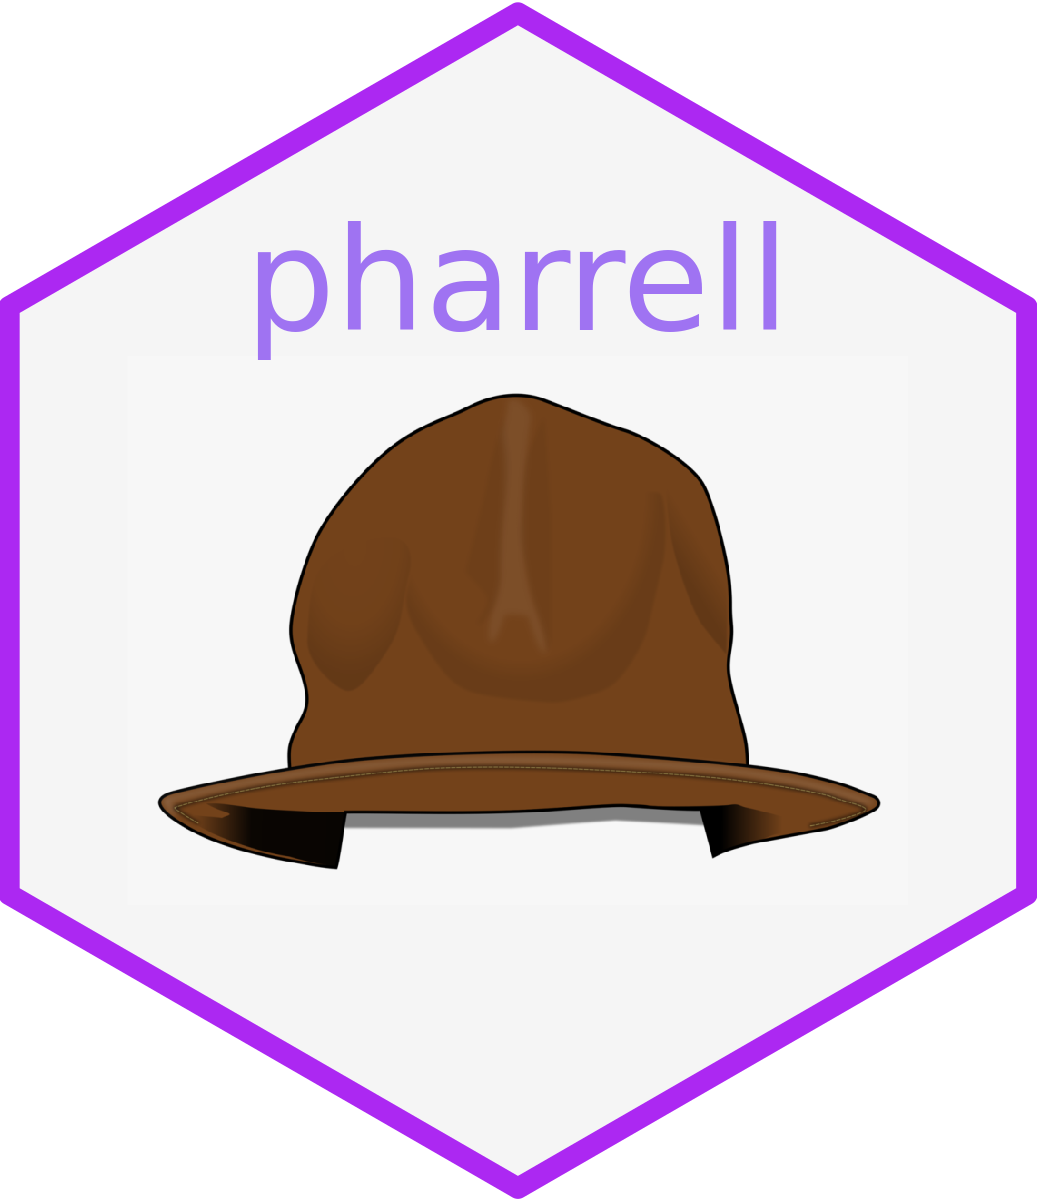
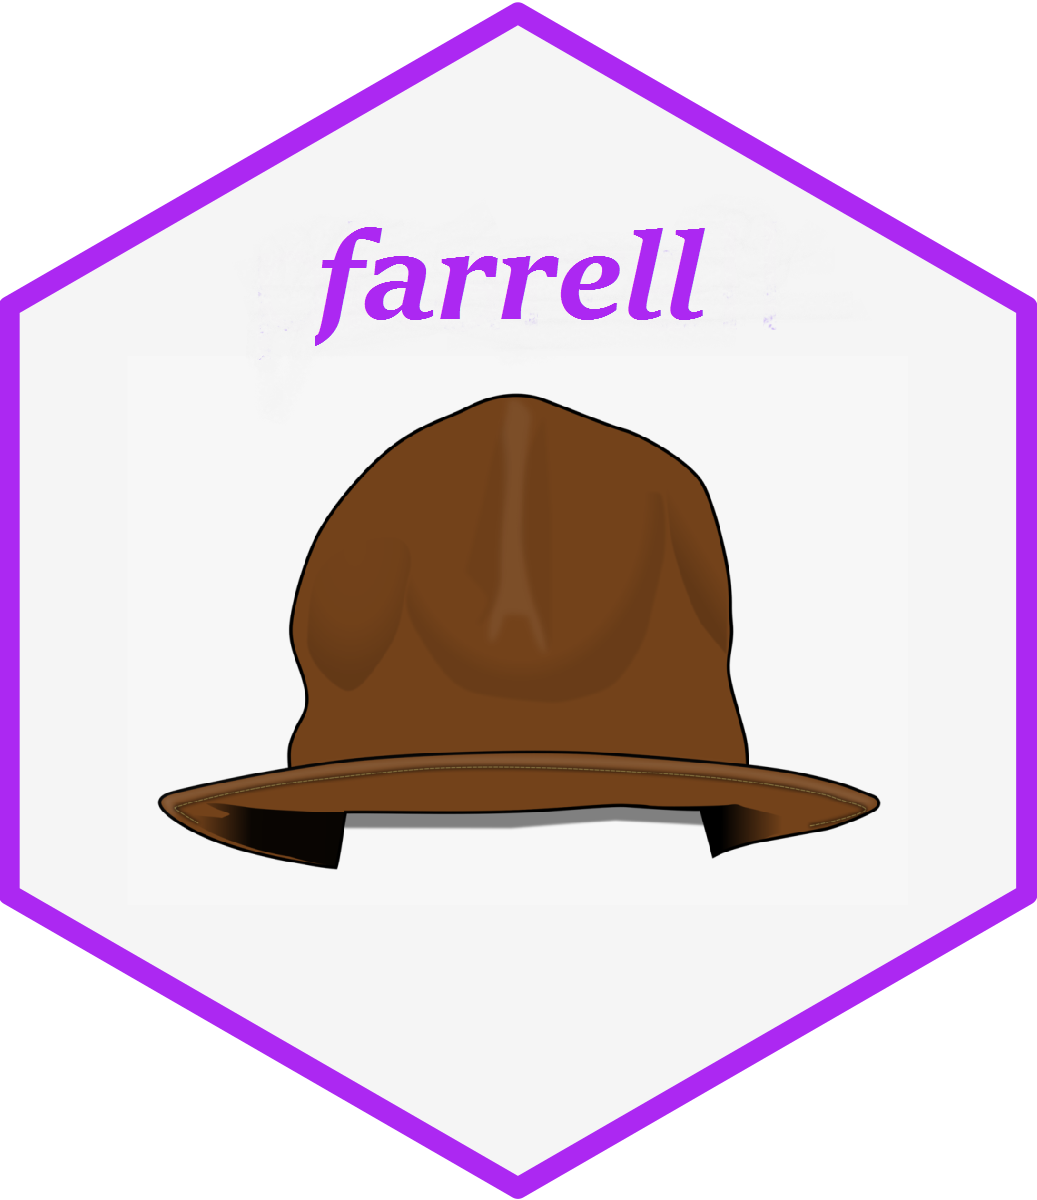
I've changed the name

Changed region(s): [[0.2469, 0.185, 0.7715, 0.3083]]

diff --git a/README.md b/README.md
@@ -1,23 +1,23 @@
 
 <!-- README.md is generated from README.Rmd. Please edit that file -->
 
-# pharrell <a><img src='man/figures/hex.png' align="right" height="200" /></a>
+# farrell <a><img src='man/figures/hex.png' align="right" height="200" /></a>
 
 <!-- badges: start -->
 
 <!-- badges: end -->
 
-The goal of pharrell is to provide an interactive interface to Data
-Envelopment Analysis modeling in R. The pharrell package is built upon
-[Benchmarking](https://cran.r-project.org/web/packages/Benchmarking/Benchmarking.pdf).
+The goal of farrell is to provide an interactive interface to Data
+Envelopment Analysis modeling in R. The farrell package is built upon
+[Benchmarking](https://CRAN.R-project.org/package=Benchmarking).
 
 ## Installation
 
-You can install the development version of pharrell from
+You can install the development version of farrell from
 [CRAN](https://CRAN.R-project.org) with:
 
 ``` r
-remotes::install_github("feddelegrand7/pharrell")
+remotes::install_github("feddelegrand7/farrell")
 ```
 
 ## Example
@@ -25,19 +25,19 @@ remotes::install_github("feddelegrand7/pharrell")
 You can run:
 
 ``` r
-library(pharrell)
+library(farrell)
 
-pharrell()
+farrell()
 ```
 
 or if you’re working on RStudio, just click on **Addins** then
-**pharrell**.
+**farrell**.
 
 ## Code of Conduct
 
 ## Code of Conduct
 
-Please note that the pharrell project is released with a [Contributor
+Please note that the farrell project is released with a [Contributor
 Code of
 Conduct](https://contributor-covenant.org/version/2/0/CODE_OF_CONDUCT.html).
 By contributing to this project, you agree to abide by its terms.

diff --git a/cran-comments.md b/cran-comments.md
@@ -5,7 +5,7 @@
 
 # First submission
 
--- R CMD check results ---------------------------------------------------- pharrell 0.1.0 ----
+-- R CMD check results ---------------------------------------------------- farrell 0.1.0 ----
 Duration: 24.5s
 
 0 errors √ | 0 warnings √ | 0 notes √
